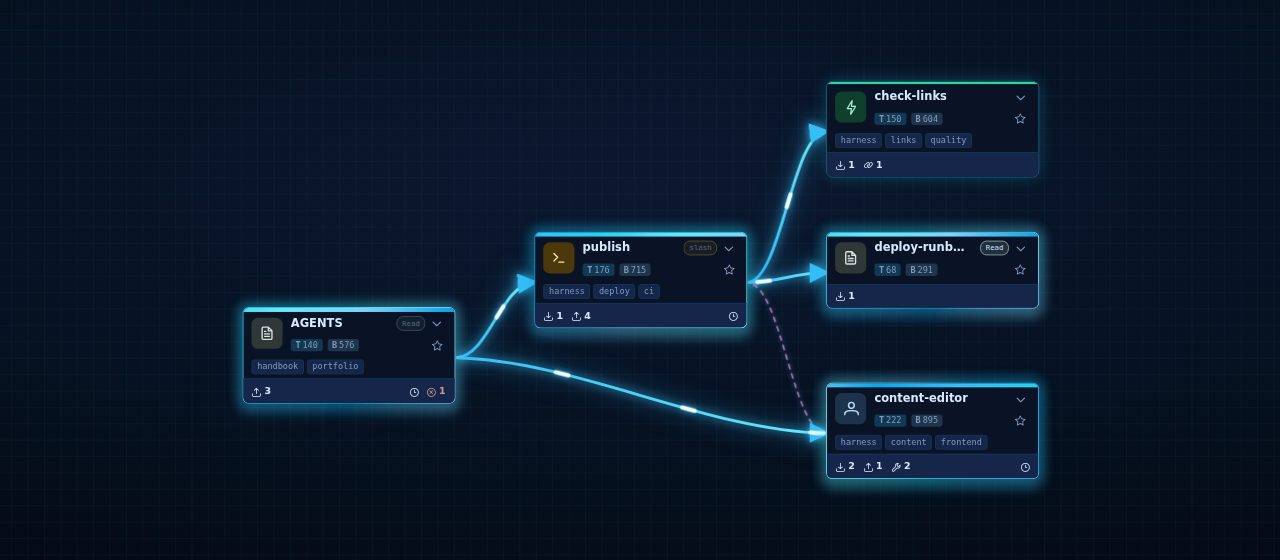
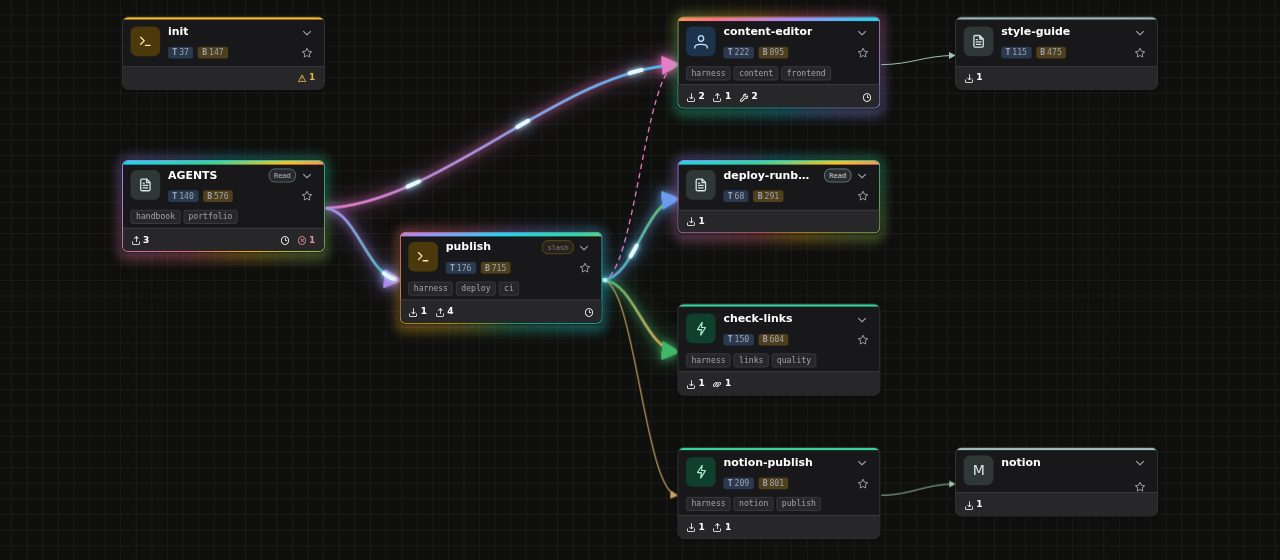
feat(web): hero embed shows the whole map in the balanced layout, dark theme
Follow-up to 06f11eeb, user-driven refinements of the embedded replay hero:

- Under ?embed=1 the live lens receives the full main-pipeline map (nodes,
  scan, positions with pins merged, no relayout) and the lens camera is
  disarmed on enter, so every card sits in place from the first frame and
  only lights up as the replay advances. A lens that re-laid out the
  subgraph made the hero jump on load.
- Embed forces the network-simplex LEFT_RIGHT layout over any stored
  preference so the public site renders the same balanced picture on
  every visitor's browser regardless of localStorage.
- Hero CTAs move under the map card and the "Real UI, live" badge to the
  bottom-left; the iframe switches to the dark theme on a #18181b card
  and the poster is regenerated to match, so the placeholder and the live
  frame no longer flash between palettes.
- spec/provider-activity.md "Embedded replay" bullet states the 1.8s beat,
  the full-map lens and the forced layout; spec/index.json regenerated.
  ROADMAP and context/web.md wording aligned.

The pending .changeset/embedded-replay-hero.md already covers this feature.

diff --git a/ui/src/app/views/graph-view/live-lens.controller.ts b/ui/src/app/views/graph-view/live-lens.controller.ts
@@ -35,6 +35,7 @@
 import { computed, effect, signal, untracked, type Signal, type WritableSignal } from '@angular/core';
 
 import type { TLinkKindApi } from '../../../models/api';
+import type { IScanResultApi } from '../../../models/api';
 import type { INodeView } from '../../../models/node';
 import type { IIssuePathsBySeverity } from '../../../services/issue-paths';
 import type { LiveLensService } from '../../../services/live-lens';
@@ -46,16 +47,12 @@ import {
   type IFollowActivityHandle,
   type IFollowSession,
 } from './follow-activity.controller';
-import type { DagreLayoutEngine } from '@foblex/flow-dagre-layout';
-
 import {
   computeForceLayoutPositions,
-  computeLayoutPositions,
   topologyFingerprint,
   type IPoint,
   type TNodePositions,
 } from './graph-layout';
-import { DEFAULT_LAYOUT_SPACING } from './layout-controls';
 import { setupGraphPipeline, type IGraphPipelineHandle } from './graph-pipeline';
 import { computeFitTransform, type IViewportTransform } from './viewport-animation';
 import { resolveDirectorTargets } from './director';
@@ -78,14 +75,17 @@ export interface ILiveLensControllerConfig {
   /** `LivePreferencesService.directorEnabled`, the replay camera taste. */
   directorEnabled: Signal<boolean>;
   /**
-   * Lens arrangement. `force` (default): the seeded cloud, survivors
-   * pinned while newcomers settle. `network-simplex`: the layered LEFT_RIGHT
-   * layout the main map uses, re-run on every topology change; the
-   * embedded boot (spec §"Embedded replay") picks it so a framed hero
-   * reads as aligned rows rather than a cloud. Needs `dagreLayout`.
+   * Embedded boot (spec §"Embedded replay"): the lens shows the FULL
+   * map instead of the executing set. Nodes, links and positions are
+   * the main pipeline's own (same dagre places, no relayout, no
+   * force cloud), the camera stays on the boot fit, and only the
+   * execution dressing (glow, comets, spawn dash) narrates the tape.
    */
-  layoutAlgorithm?: 'force' | 'network-simplex';
-  dagreLayout?: DagreLayoutEngine;
+  fullMap?: {
+    nodes: Signal<INodeView[]>;
+    scan: Signal<IScanResultApi | null>;
+    positions: Signal<ReadonlyMap<string, IPoint>>;
+  };
   /** Real severity index; the lens filter stub never reads it, passed only to satisfy the pipeline config. */
   issuesBySeverity: Signal<IIssuePathsBySeverity>;
   /** MAIN pipeline fingerprint, frozen while the lens is on (see `layoutFitFingerprint`). */
@@ -174,13 +174,13 @@ export function setupLiveLens(config: ILiveLensControllerConfig): ILiveLensHandl
   // state. Cards on the live map can pile up; this is the way out.
   const lensPins = signal<TNodePositions>(new Map());
 
-  const algorithm = config.layoutAlgorithm ?? 'force';
-  const lensAlgorithm = computed(() => algorithm);
+  const fullMap = config.fullMap;
+  const lensAlgorithm = computed(() => (fullMap ? ('network-simplex' as const) : ('force' as const)));
   const lensDirection = computed(() => 'LEFT_RIGHT' as const);
 
   const pipeline = setupGraphPipeline({
-    nodes: lens.lensNodes,
-    scan: lens.lensScan,
+    nodes: fullMap?.nodes ?? lens.lensNodes,
+    scan: fullMap?.scan ?? lens.lensScan,
     filters: filterStub,
     issuesBySeverity: config.issuesBySeverity,
     nodePositions: lensPins,
@@ -200,27 +200,21 @@ export function setupLiveLens(config: ILiveLensControllerConfig): ILiveLensHandl
   let layoutSeed: ReadonlyMap<string, IPoint> = new Map();
   effect(() => {
     if (!lens.active()) return;
+    if (fullMap) {
+      // Full-map lens: mirror the main layout, every card keeps its place.
+      const positions = fullMap.positions();
+      untracked(() => {
+        pipeline.layoutPositions.set(new Map(positions));
+        pipeline.layoutComputedAtSignal.set(performance.now());
+      });
+      return;
+    }
     const nodes = lens.lensNodes();
     const topology = pipeline.topology();
     if (nodes.length === 0) return;
     const key = topologyFingerprint(nodes, topology.edges);
     if (key === lastLayoutKey) return;
     lastLayoutKey = key;
-    if (algorithm === 'network-simplex' && config.dagreLayout !== undefined) {
-      // Layered arrangement: async like the main map's effect, and a
-      // result that lands after a newer topology is dropped.
-      void computeLayoutPositions(config.dagreLayout, nodes, topology.edges, {
-        algorithm: 'network-simplex',
-        direction: 'LEFT_RIGHT',
-        spacing: DEFAULT_LAYOUT_SPACING,
-      }).then((positions) => {
-        if (lastLayoutKey !== key) return;
-        layoutSeed = positions;
-        pipeline.layoutPositions.set(positions);
-        pipeline.layoutComputedAtSignal.set(performance.now());
-      });
-      return;
-    }
     // Seed = survivors' last positions overlaid with the operator's
     // pins (read untracked: a drag must never re-run the layout, the
     // projection already overlays the pin; the next topology change
@@ -246,7 +240,7 @@ export function setupLiveLens(config: ILiveLensControllerConfig): ILiveLensHandl
    * persisted, so a gesture-disarm during the lens cannot clobber the
    * user's global Follow the Activity preference.
    */
-  const lensFollowArmed = signal(true);
+  const lensFollowArmed = signal(fullMap === undefined);
   const follow = setupFollowActivity({
     livePrefs: config.livePrefs,
     nodeActivity: config.nodeActivity,
@@ -301,7 +295,8 @@ export function setupLiveLens(config: ILiveLensControllerConfig): ILiveLensHandl
       fingerprint: config.mainPathsFingerprint(),
     };
     frozenFingerprint.set(snapshot.fingerprint);
-    lensFollowArmed.set(true);
+    // Re-armed on every enter; the full-map embed keeps the camera on the boot fit.
+    lensFollowArmed.set(fullMap === undefined);
     config.beginViewSwitch();
     lens.setActive(true);
   };

diff --git a/web/index.html b/web/index.html
@@ -156,24 +156,6 @@
             <span data-i18n="hero.sub.2">The harness you designed, finally visible and testable: deterministic and probabilistic analysis and fixes, on one map.</span>
           </p>
 
-          <div class="hero__ctas">
-            <a class="btn btn--accent btn--xl" href="/demo/" target="_blank" rel="noopener">
-              <span data-i18n="hero.cta.demo">See it live</span>
-              <svg viewBox="0 0 24 24" fill="none" stroke="currentColor" stroke-width="2" stroke-linecap="round" stroke-linejoin="round" aria-hidden="true">
-                <path d="M18 13v6a2 2 0 0 1-2 2H5a2 2 0 0 1-2-2V8a2 2 0 0 1 2-2h6"/>
-                <polyline points="15 3 21 3 21 9"/>
-                <line x1="10" y1="14" x2="21" y2="3"/>
-              </svg>
-            </a>
-            <button type="button" class="btn btn--mono btn--xl js-copy" data-copy="npm i -g @skill-map/cli" data-i18n-aria-label="copy.aria">
-              <span class="btn__label" data-i18n="hero.cta.install">Install</span>
-              <span class="btn__cmd" data-i18n="hero.cta.npm">npm i -g @skill-map/cli</span>
-              <svg viewBox="0 0 24 24" fill="none" stroke="currentColor" stroke-width="1.8" stroke-linecap="round" stroke-linejoin="round" aria-hidden="true">
-                <rect x="9" y="9" width="13" height="13" rx="2"/>
-                <path d="M5 15H4a2 2 0 0 1-2-2V4a2 2 0 0 1 2-2h9a2 2 0 0 1 2 2v1"/>
-              </svg>
-            </button>
-          </div>
         </div>
 
         <!-- Graph card: the REAL map. `/demo/?embed=1&replay=…` framed
@@ -186,15 +168,35 @@
         <div class="hero__graph" id="hero-graph">
           <img class="hero__graph-poster" src="/img/hero-embed-poster.jpg" width="1280" height="560" alt="" aria-hidden="true" decoding="async" fetchpriority="high">
           <!-- Says out loud what the card is: the product's own UI, not a
-               mockup. Sits over the frame, click-through. -->
+               mockup. Sits over the frame, bottom-left, click-through. -->
           <span class="hero__graph-badge" aria-hidden="true">
             <i></i><span data-i18n="hero.embed.badge">Real UI, live. Not a mockup.</span>
           </span>
           <iframe class="hero__graph-frame"
-                  data-src="/demo/?embed=1&amp;replay=main:demo-publish&amp;theme=neon-blue"
+                  data-src="/demo/?embed=1&amp;replay=main:demo-publish&amp;theme=dark"
                   title="skill-map live map: a harness replaying an agent session"
                   data-i18n-title="hero.embed.title"
                   referrerpolicy="same-origin"></iframe>
+        </div>
+
+        <!-- CTAs sit under the map (user call 2026-09-02): see it first, then act. -->
+        <div class="hero__ctas">
+          <a class="btn btn--accent btn--xl" href="/demo/" target="_blank" rel="noopener">
+            <span data-i18n="hero.cta.demo">See it live</span>
+            <svg viewBox="0 0 24 24" fill="none" stroke="currentColor" stroke-width="2" stroke-linecap="round" stroke-linejoin="round" aria-hidden="true">
+              <path d="M18 13v6a2 2 0 0 1-2 2H5a2 2 0 0 1-2-2V8a2 2 0 0 1 2-2h6"/>
+              <polyline points="15 3 21 3 21 9"/>
+              <line x1="10" y1="14" x2="21" y2="3"/>
+            </svg>
+          </a>
+          <button type="button" class="btn btn--mono btn--xl js-copy" data-copy="npm i -g @skill-map/cli" data-i18n-aria-label="copy.aria">
+            <span class="btn__label" data-i18n="hero.cta.install">Install</span>
+            <span class="btn__cmd" data-i18n="hero.cta.npm">npm i -g @skill-map/cli</span>
+            <svg viewBox="0 0 24 24" fill="none" stroke="currentColor" stroke-width="1.8" stroke-linecap="round" stroke-linejoin="round" aria-hidden="true">
+              <rect x="9" y="9" width="13" height="13" rx="2"/>
+              <path d="M5 15H4a2 2 0 0 1-2-2V4a2 2 0 0 1 2-2h9a2 2 0 0 1 2 2v1"/>
+            </svg>
+          </button>
         </div>
       </div>
     </section>

diff --git a/web/styles.css b/web/styles.css
@@ -744,29 +744,32 @@ svg    { display: block; max-width: 100%; }
   color: rgba(255,255,255,.85);
   font-weight: 400;
   max-width: 640px;
-  margin: 0 auto var(--s-8);
+  margin: 0 auto;
 }
 
+/* Under the map card: the visitor sees the real thing first, then acts. */
 .hero__ctas {
   display: flex;
   gap: var(--s-3);
   justify-content: center;
   flex-wrap: wrap;
+  margin-top: var(--s-8);
 }
 
 
 /* ---------- Graph card: the real map, framed ---------- */
-/* `/demo/?embed=1&replay=…&theme=neon-blue` in an <iframe> (hero-embed.js
+/* `/demo/?embed=1&replay=…&theme=dark` in an <iframe> (hero-embed.js
    sets the src after the page's own load so the Angular boot never
    competes with the hero paint). The poster underneath is a screenshot of
    the same graph; it stays until the framed map has drawn its cards, then
    `is-live` fades the frame in over it. Chrome-less on purpose: whatever
-   is visible inside the card IS the map. The base colour is the neon-blue
-   console navy so the poster / frame swap never flashes. */
+   is visible inside the card IS the map. The base colour is the dark
+   theme's canvas (`--sm-bg-content`) so the poster / frame swap never
+   flashes. */
 .hero__graph {
   position: relative;
   border-radius: 20px;
-  background: #0a1326;
+  background: #18181b;
   border: 1px solid rgba(255,255,255,.08);
   box-shadow:
     0 40px 100px rgba(0,0,0,.5),
@@ -793,11 +796,11 @@ svg    { display: block; max-width: 100%; }
 }
 .hero__graph.is-live .hero__graph-frame { opacity: 1; }
 
-/* "Real UI" badge, top-left over the frame: mono chip with a live dot,
+/* "Real UI" badge, bottom-left over the frame: mono chip with a live dot,
    click-through so the map underneath keeps its drag. */
 .hero__graph-badge {
   position: absolute;
-  top: 14px;
+  bottom: 14px;
   left: 14px;
   z-index: 3;
   display: inline-flex;
@@ -829,7 +832,7 @@ svg    { display: block; max-width: 100%; }
   }
 }
 @media (max-width: 480px) {
-  .hero__graph-badge { top: 10px; left: 10px; font-size: 10px; }
+  .hero__graph-badge { bottom: 10px; left: 10px; font-size: 10px; }
 }
 @media (prefers-reduced-motion: reduce) {
   .hero__graph-frame { transition: none; }

diff --git a/ui/src/services/graph-preferences.ts b/ui/src/services/graph-preferences.ts
@@ -30,7 +30,7 @@
  *     get normalised once at boot rather than every read.
  */
 
-import { Injectable, signal } from '@angular/core';
+import { Injectable, inject, signal } from '@angular/core';
 import { EFConnectionType } from '@foblex/flow';
 
 import {
@@ -43,6 +43,7 @@ import {
   type TLayoutDirection,
   type TLayoutSpacing,
 } from '../app/views/graph-view/layout-controls';
+import { SKILL_MAP_EMBED } from './embed-mode';
 
 /**
  * Foblex `EFConnectionType` literal subset, scoped for narrowing without
@@ -79,14 +80,25 @@ const LAYOUT_DIRECTION_KEY = 'sm.graph.layout-direction';
 
 @Injectable({ providedIn: 'root' })
 export class GraphPreferencesService {
+  /**
+   * Embedded boot (spec §"Embedded replay"): the framed map always
+   * opens in the balanced layout, left to right, whatever the
+   * visitor's own preference on the shared origin says (the layout
+   * toolbar is hidden there, so nothing can change it either).
+   */
+  private readonly embed = inject(SKILL_MAP_EMBED, { optional: true }) !== null;
   private readonly _connectionType = signal<TConnectionType>(
     readStored(CONNECTION_TYPE_KEY, isConnectionType, DEFAULT_CONNECTION_TYPE),
   );
   private readonly _layoutAlgorithm = signal<TLayoutAlgorithm>(
-    readStored(LAYOUT_ALGORITHM_KEY, isLayoutAlgorithm, DEFAULT_LAYOUT_ALGORITHM),
+    this.embed
+      ? 'network-simplex'
+      : readStored(LAYOUT_ALGORITHM_KEY, isLayoutAlgorithm, DEFAULT_LAYOUT_ALGORITHM),
   );
   private readonly _layoutDirection = signal<TLayoutDirection>(
-    readStored(LAYOUT_DIRECTION_KEY, isLayoutDirection, DEFAULT_LAYOUT_DIRECTION),
+    this.embed
+      ? 'LEFT_RIGHT'
+      : readStored(LAYOUT_DIRECTION_KEY, isLayoutDirection, DEFAULT_LAYOUT_DIRECTION),
   );
   // Pinned to the default: the spacing toolbar control was removed, so
   // there is no UI to change it and no stored value is read (a legacy

diff --git a/ui/src/app/views/graph-view/graph-view.ts b/ui/src/app/views/graph-view/graph-view.ts
@@ -457,12 +457,24 @@ export class GraphView implements OnInit {
     nodeActivity: this.nodeActivity,
     livePrefs: this.livePrefs,
     playback: this.playback,
-    // Embed (spec §"Embedded replay"): the camera frames the whole lens
-    // set (no director close-ups, the frame is small) over a layered
-    // dagre arrangement instead of the force cloud.
-    directorEnabled: computed(() => !this.embed && this.livePrefs.directorEnabled()),
-    layoutAlgorithm: this.embed ? 'network-simplex' : 'force',
-    dagreLayout: this.dagreLayout,
+    directorEnabled: this.livePrefs.directorEnabled,
+    // Embed (spec §"Embedded replay"): the lens shows the whole map in
+    // its own dagre places and only the execution dressing moves.
+    ...(this.embed
+      ? {
+          fullMap: {
+            nodes: this.loader.nodes,
+            scan: this.loader.scan,
+            positions: computed(() => {
+              // Effective places: a pinned drag (or an applied view's
+              // pins) wins over the layout, like `projectVisible`.
+              const merged = new Map<string, IPoint>(this.fullLayout().positions);
+              for (const [path, pin] of this.nodePositions()) merged.set(path, { x: pin.x, y: pin.y });
+              return merged;
+            }),
+          },
+        }
+      : {}),
     issuesBySeverity: this.issuePaths.bySeverity,
     mainPathsFingerprint: this.pathsFingerprint,
     viewportPosition: this.viewportPosition,

diff --git a/ui/src/services/__tests__/graph-preferences.spec.ts b/ui/src/services/__tests__/graph-preferences.spec.ts
@@ -15,6 +15,7 @@ import {
   GraphPreferencesService,
   type TConnectionType,
 } from '../graph-preferences';
+import { SKILL_MAP_EMBED } from '../embed-mode';
 
 const STORAGE_KEY = 'sm.graph.connection-type';
 
@@ -154,5 +155,18 @@ describe('GraphPreferencesService, signal reactivity', () => {
     service.setConnectionType('segment');
     readings.push(service.connectionType());
     expect(readings).toEqual([DEFAULT_CONNECTION_TYPE, 'straight', 'segment']);
+  });
+});
+
+describe('GraphPreferencesService, embedded boot', () => {
+  it('forces the balanced left-to-right layout over any stored preference', () => {
+    localStorage.setItem('sm.graph.layout-algorithm', 'force');
+    localStorage.setItem('sm.graph.layout-direction', 'TOP_BOTTOM');
+    TestBed.resetTestingModule();
+    TestBed.configureTestingModule({ providers: [{ provide: SKILL_MAP_EMBED, useValue: { theme: null } }] });
+    const service = TestBed.inject(GraphPreferencesService);
+    expect(service.layoutAlgorithm()).toBe('network-simplex');
+    expect(service.layoutDirection()).toBe('LEFT_RIGHT');
+    localStorage.clear();
   });
 });

diff --git a/ROADMAP.md b/ROADMAP.md
@@ -1125,7 +1125,7 @@ Phase C, real-time exploration (shipped):
 - ✅ **Antigravity writes + shell rung, live-characterised** (2026-08-18, the day's third adapter probe, "luego sigamos con antigravity"): re-probing agy 1.1.14 headless (`--print` + `--dangerously-skip-permissions`, from a scratch scope with its own `.git`, workspace hooks only load for a TRUSTED folder, `trustedWorkspaces` in the CLI settings, the codex-trust analogue, inspectable via the print-mode `/hooks` answer) closed the July deferral: the write tools are `write_to_file` (new files) and `replace_file_content` (edits), BOTH with an ABSOLUTE `toolCall.args.TargetFile` (the old catalog guesses `create_file` / `edit_file` never fire), and `run_command` carries `CommandLine` plus an explicit `Cwd`. The adapter maps writes always-on (rung 3, `access: 'write'`, tool name as `detail`) and the shell rung as the same `optIn: 'shell'` double opt-in as claude / codex (`^run_command$`, `detail: 'run_command'`), through the new shared `shellCommandMarkdownPaths` multi-root core (tokens absolutize against the command's own Cwd, containment against `workspacePaths[*]`; claude / codex collapse both onto the session cwd). With antigravity aboard, opencode (plugin-file, structurally event-less) was briefly the only shell-rung-less provider, and the refused-provider fixtures moved onto it. Verified END-TO-END against the real runtime: `sm activity install antigravity --shell` renders 3 events, a live `agy --print` run lands `docs/notes.md · shell · run_command` and `docs/notes.md · write · replace_file_content` in a recording stamped `shell`, and the conversation Stop finalizes the session.
 - ✅ **OpenCode shell rung: the plugin-file opt-in dialect** (2026-08-18, the day's fourth adapter, closing the matrix): opencode's `bash` tool was live-characterised on 1.18.9 (`tool.execute.before`, command in `output.args.command`), and the probe surfaced a POSTURE gap worth fixing on its own: the generated plugin forwarded EVERY tool's before event unfiltered, so bash command lines already left the host process (loopback, then discarded at `mapEvent`), which is exactly what the double opt-in exists to prevent. The fix is the opt-in mechanism itself: the `pluginHooksSource` now parameterizes a wiring-level filter on the new `{{SHELL_ON}}` placeholder (`core/activity/plugin-template.ts`), resolved from the stored key at install render, so bash payloads stay in-process until `sm activity install opencode --shell` re-renders the plugin; once opted in, `mapBashUsage` runs the shared shell grammar against the plugin context's `directory` (`access: 'shell'`, `detail: 'bash'`). `providerOwnsShellOptIn` derives the plugin-file capability from the placeholder's presence (one source of truth, no parallel flag), which also makes uninstall retire the key for opencode automatically. With that, ALL FOUR built-in activity providers own the rung; the refusal path has no built-in left to exercise it, so it is pinned at the engine level with synthetic shapes (json-hooks without the event, plugin-file without the placeholder) and the CLI / BFF specs pin the accept behaviour per dialect instead. The demo tripwire now derives `shellOptIn` through the REAL predicate rather than the events list. Verified END-TO-END against the real runtime both ways: opted in, a live `opencode run` `cat docs/notes.md` lands `docs/notes.md · shell · bash` in a recording stamped `shell` (session.idle finalizes); opted out, the re-rendered filter reads `!false` and the same run leaves zero frames.
 
-- ✅ **The demo replays sessions** (2026-08-17, user ask "que la demo también tenga la sección de Session"): the public demo's Sessions tab ships ONE curated recording of the demo fixture (a `/publish` run: command → check-links → content-editor spawn reading STYLE.md → notion-publish hitting `mcp://notion`; a second shorter brief was cut same day, one strong story beats two) and replays it on the map. Replay is pure client-side theater over recorded frames, so it is the one live-arc feature a static bundle can honestly deliver; the mechanism is `LiveLensService.replayAvailable`, deliberately WIDER than `available` (which stays `mode !== 'demo'` and keeps Record / Real Time honestly disabled): `setActive` admits a demo enter only while a replay is in flight, and `replaySessionFromTape` enters playback BEFORE flipping the lens on. The curated asset lives at `web/scripts/demo-sessions.json`, is copied into the bundle as `sessions.json` by `build-demo-dataset.js`, and is guarded from src (the only workspace with AJV) by `src/__tests__/demo-sessions-asset.spec.ts`: schema-valid against `session-recording.schema.json` AND every referenced path exists in `fixtures/demo/` (hand-authored data rots silently on fixture reorganizations otherwise). Verified by execution: Playwright drive of the freshly baked bundle, the curated session listed, Play enters the lens, spawn edge + reads animate, transport narrates with the session-title chip. The public site's hero frames that same replay chrome-less (2026-09-02, user ask "que sean reales las cards", "no tener nada visible solo las cards"): `/demo/?embed=1&replay=main:demo-publish&theme=neon-blue` under the boot-only `embed` flag (spec §"Embedded replay": canvas alone, looping playback, plain wheel left to the host page, a card click opens the full SPA on that node, an `embed` storage namespace and no persisted theme so the framed visit never touches the visitor's own settings). The hand-drawn SVG simulator with invented token counts and the screen-capture "single screen" section it replaced are gone; what the landing shows IS the map. `/demo/` itself is unchanged.
+- ✅ **The demo replays sessions** (2026-08-17, user ask "que la demo también tenga la sección de Session"): the public demo's Sessions tab ships ONE curated recording of the demo fixture (a `/publish` run: command → check-links → content-editor spawn reading STYLE.md → notion-publish hitting `mcp://notion`; a second shorter brief was cut same day, one strong story beats two) and replays it on the map. Replay is pure client-side theater over recorded frames, so it is the one live-arc feature a static bundle can honestly deliver; the mechanism is `LiveLensService.replayAvailable`, deliberately WIDER than `available` (which stays `mode !== 'demo'` and keeps Record / Real Time honestly disabled): `setActive` admits a demo enter only while a replay is in flight, and `replaySessionFromTape` enters playback BEFORE flipping the lens on. The curated asset lives at `web/scripts/demo-sessions.json`, is copied into the bundle as `sessions.json` by `build-demo-dataset.js`, and is guarded from src (the only workspace with AJV) by `src/__tests__/demo-sessions-asset.spec.ts`: schema-valid against `session-recording.schema.json` AND every referenced path exists in `fixtures/demo/` (hand-authored data rots silently on fixture reorganizations otherwise). Verified by execution: Playwright drive of the freshly baked bundle, the curated session listed, Play enters the lens, spawn edge + reads animate, transport narrates with the session-title chip. The public site's hero frames that same replay chrome-less (2026-09-02, user ask "que sean reales las cards", "no tener nada visible solo las cards"): `/demo/?embed=1&replay=main:demo-publish&theme=dark` under the boot-only `embed` flag (spec §"Embedded replay": canvas alone, looping playback, plain wheel left to the host page, a card click opens the full SPA on that node, an `embed` storage namespace and no persisted theme so the framed visit never touches the visitor's own settings). The hand-drawn SVG simulator with invented token counts and the screen-capture "single screen" section it replaced are gone; what the landing shows IS the map. The arrangement is the balanced (`network-simplex`, left to right) layout forced under `embed` (user call 2026-09-02: the algorithm over hand-pinned coordinates); `/demo/` itself is unchanged.
 
 - ✅ **Browser storage namespaced per project, versioned, no retrocompat** (2026-08-17, field find: sessions recorded in `fixtures/claude` surfaced while serving `fixtures/demo`, because `localStorage` is per-ORIGIN and every locally served project shares `127.0.0.1:<port>`): `sm serve` stamps the RESOLVED scope root (realpath) into the served `index.html` as a `skill-map-scope` meta (`static.ts` injects on `/`, `/index.html` and every SPA deep link; assets stream untouched; spec `cli-contract.md` §Serve), and the UI suffixes its PROJECT-STATE keys (tape, node positions, viewport, node/folder expansions, map overrides, active view) with an 8-hex FNV-1a hash of it, synchronously at module load via `ui/src/services/scoped-storage.ts`. Operator PREFERENCES (rail width, sort modes, filters) deliberately stay bare, a preference follows the operator across projects. Two deliberate simplicities, both user calls: the hash is non-cryptographic (separates a handful of local folders, and `crypto.subtle` is async so it could not mint keys constructors read), and there is NO backward compatibility, with a PER-LAYOUT-CHANGE blast radius (two user refinements, same day): `sm.storage-version` stores the CLI VERSION that last wrote the origin (stamped into the HTML as a second meta, `skill-map-version`, by serve and the demo patch alike), and the gate applies every `VERSION_RESETS` semver threshold CROSSED by the upgrade ('all' or a list of base keys, scoped variants included); a release crossing no threshold wipes nothing, unknown territory (unversioned origin, unreadable version, downgrade) falls back to the full wipe (misreading state is worse than resetting it), and the namespace migration's own threshold ('1.12.0') declares 'all' since every bare-era key is unreadable. The dev harness stamps its own metas rather than sitting outside the gate (same-day follow-up): the raw `ui/src/index.html` carries a static `dev` pseudo-version (inert under a real serve, the BFF's injected meta precedes it in document order), and the `fix:*` dev flow generates a gitignored `index.dev.html` (`ui/scripts/stamp-dev-index.mjs`, composed via the `dev-stamped` build configuration onto `ng serve --configuration=local`) stamping the fixture's realpath as the scope, so the shared 4200 origin gets per-fixture namespaces and the cross-fixture tape/positions leak closes in the dev flow too; the e2e seeds stamp `sm.storage-version` alongside their keys (`e2e/_storage.ts`), because the gate honestly wiped the unversioned `rail-collapsed` seeds and took all 26 smoke tests down until repaired. Same-day UX fix in the selector: the locked `+Shell` position stopped being natively disabled (a disabled button swallows the pointer events its explanatory tooltip needs); it renders muted with `aria-disabled`, `onChange` refuses the selection re-syncing PrimeNG through the public CVA `writeValue`, and the tooltip names the fix, pointing at Settings > Project except when the selector already sits there. The `sm.scopes` registry key maps each hash to its root, a pure debug affordance so devtools readers can tell projects apart. Verified live: stale bare keys wiped, version stamped, state re-written scoped, prefs untouched, demo (no meta) on the `default` namespace.
 

diff --git a/spec/provider-activity.md b/spec/provider-activity.md
@@ -1070,7 +1070,7 @@ WHICH nodes executed and who spawned whom, no latency, no tokens, no content.
   the client tape only the current page's.
 - **A recording is a session (SPA)**: every press of Record is a new session row, never a continuation of the previous one (user decision 2026-08-29). The journal already writes one file per recording; the SPA lists one row per file (identity: root owner + the file's `startedAt`), and the browser tape stamps every captured frame with its Record gesture so its own fold partitions the same runtime session into one row per gesture, hiding only the journal file of the window it narrates itself. A replay is scoped to that one window, and the deep link names it with `rec=<recording>`.
 - **Addressable replay**: the SPA's replay is a deep link, `?replay=<rootOwner>[&rec=<recording>][&agent=<spawnId>][&at=<frame>]` (`rec` is the recording's identity, the journal file's `startedAt` or the tape's Record stamp; absent, the latest recording of that root), resolved once at boot against the client tape and then the journal (one best-effort `GET /api/activity/sessions`; a target neither knows, another machine's journal or a purged session, is ignored silently and the params drop). `at` is the 0-based frame index inside the scoped tape and lands the replay PAUSED on that frame. While a session-scoped replay is on screen the SPA writes the params back (`at` only while paused: a playing replay is a film that starts from the top), and the transport's Copy link hands out that URL. The whole-tape replay has no session identity and is never linkable. The journal is per machine (`.skill-map/` is not committed), so a link travels with the recording file it names.
-- **Embedded replay**: `?embed=1` is a boot-only flag (read once with the replay link, never written back) under which the SPA renders the map canvas ALONE: no shell chrome (banners, topbar, view nav, dialogs), no files rail, no inspector, no toolbar, no palettes and no transport bar; the desktop-only viewport guard is skipped too, a bare canvas has nothing that breaks at phone widths. The canvas stays interactive (drag to pan, drag a card, pinch or `Ctrl`/`Cmd`+wheel to zoom) but a plain wheel is left to the page hosting the frame, and a click on a card opens the full SPA on that node (`?path=<node>`) in a new tab instead of an inspector. A replay entered under `embed` LOOPS at a slower beat (1.8 s per frame instead of the transport's 1 s; a framed hero is glanced at, not operated): on the last frame it rewinds and plays again instead of pausing, so the deep link `?embed=1&replay=<rootOwner>` is a self-running film. The lens arranges the executing set with the layered dagre layout under `embed` (the force cloud stays the default elsewhere) and the director close-ups are off, so the camera frames the whole set. `theme=<id>` (a base `light` / `dark` or an extra theme id) is honoured only together with `embed` and is never persisted: the embed keeps its own storage namespace for project state (positions, viewport) and writes no theme preference, so a framed visit leaves the visitor's own SPA settings untouched. The public site's hero frames `/demo/?embed=1&replay=…` this way.
+- **Embedded replay**: `?embed=1` is a boot-only flag (read once with the replay link, never written back) under which the SPA renders the map canvas ALONE: no shell chrome (banners, topbar, view nav, dialogs), no files rail, no inspector, no toolbar, no palettes and no transport bar; the desktop-only viewport guard is skipped too, a bare canvas has nothing that breaks at phone widths. The canvas stays interactive (drag to pan, drag a card, pinch or `Ctrl`/`Cmd`+wheel to zoom) but a plain wheel is left to the page hosting the frame, and a click on a card opens the full SPA on that node (`?path=<node>`) in a new tab instead of an inspector. A replay entered under `embed` LOOPS at a slower beat (1.8 s per frame instead of the transport's 1 s; a framed hero is glanced at, not operated): on the last frame it rewinds and plays again instead of pausing, so the deep link `?embed=1&replay=<rootOwner>` is a self-running film. Under `embed` the lens shows the FULL map instead of the executing set: every card sits in its place from the first frame (the layout is forced to the balanced `network-simplex` arrangement, left to right, whatever the visitor's own layout preference says) and lights up in turn (glow, comets, spawn dash), and the camera stays on the boot fit instead of following the activity. `theme=<id>` (a base `light` / `dark` or an extra theme id) is honoured only together with `embed` and is never persisted: the embed keeps its own storage namespace for project state (positions, viewport) and writes no theme preference, so a framed visit leaves the visitor's own SPA settings untouched. The public site's hero frames `/demo/?embed=1&replay=…` this way.
 - **Deletion**: `DELETE /api/activity/sessions` empties the journal in one
   gesture: every session file plus the serve process's open in-memory
   buffers (discarded without finalizing, so a pending debounce flush

diff --git a/context/web.md b/context/web.md
@@ -29,4 +29,4 @@ The off-by-one (`767` / `1023`) is deliberate: it lets `min-width: 768` and `max
 
 **JS guards must mirror CSS**: any `matchMedia('(max-width: Npx)')` in `web/modules/*.js` MUST match a CSS `@media (max-width: Npx)` rule, change one and the other in the same diff. There is none today: the hero card's former guards left with the hand-drawn SVG simulator they gated.
 
-**The hero card is the real map, framed**: `#hero-graph` holds an `<iframe>` of `/demo/?embed=1&replay=main:demo-publish&theme=neon-blue` (the embed contract is `spec/provider-activity.md` §"Embedded replay": canvas only, looping replay, wheel left to the page, card click opens the full demo). `web/modules/hero-embed.js` sets the frame's `src` after the page `load` and fades it in over the poster (`web/img/hero-embed-poster.jpg`, a screenshot of that same graph; regenerate it when the demo fixture or the neon-blue theme changes) once the framed map has drawn its cards. The card stays on phones: the embed skips the app's desktop-only viewport guard, so do not reintroduce a `display: none` for it below 768px.
+**The hero card is the real map, framed**: `#hero-graph` holds an `<iframe>` of `/demo/?embed=1&replay=main:demo-publish&theme=dark` (the embed contract is `spec/provider-activity.md` §"Embedded replay": canvas only, looping replay, wheel left to the page, card click opens the full demo). `web/modules/hero-embed.js` sets the frame's `src` after the page `load` and fades it in over the poster (`web/img/hero-embed-poster.jpg`, a screenshot of that same graph; regenerate it when the demo fixture or the dark theme changes) once the framed map has drawn its cards. The card stays on phones: the embed skips the app's desktop-only viewport guard, so do not reintroduce a `display: none` for it below 768px.
